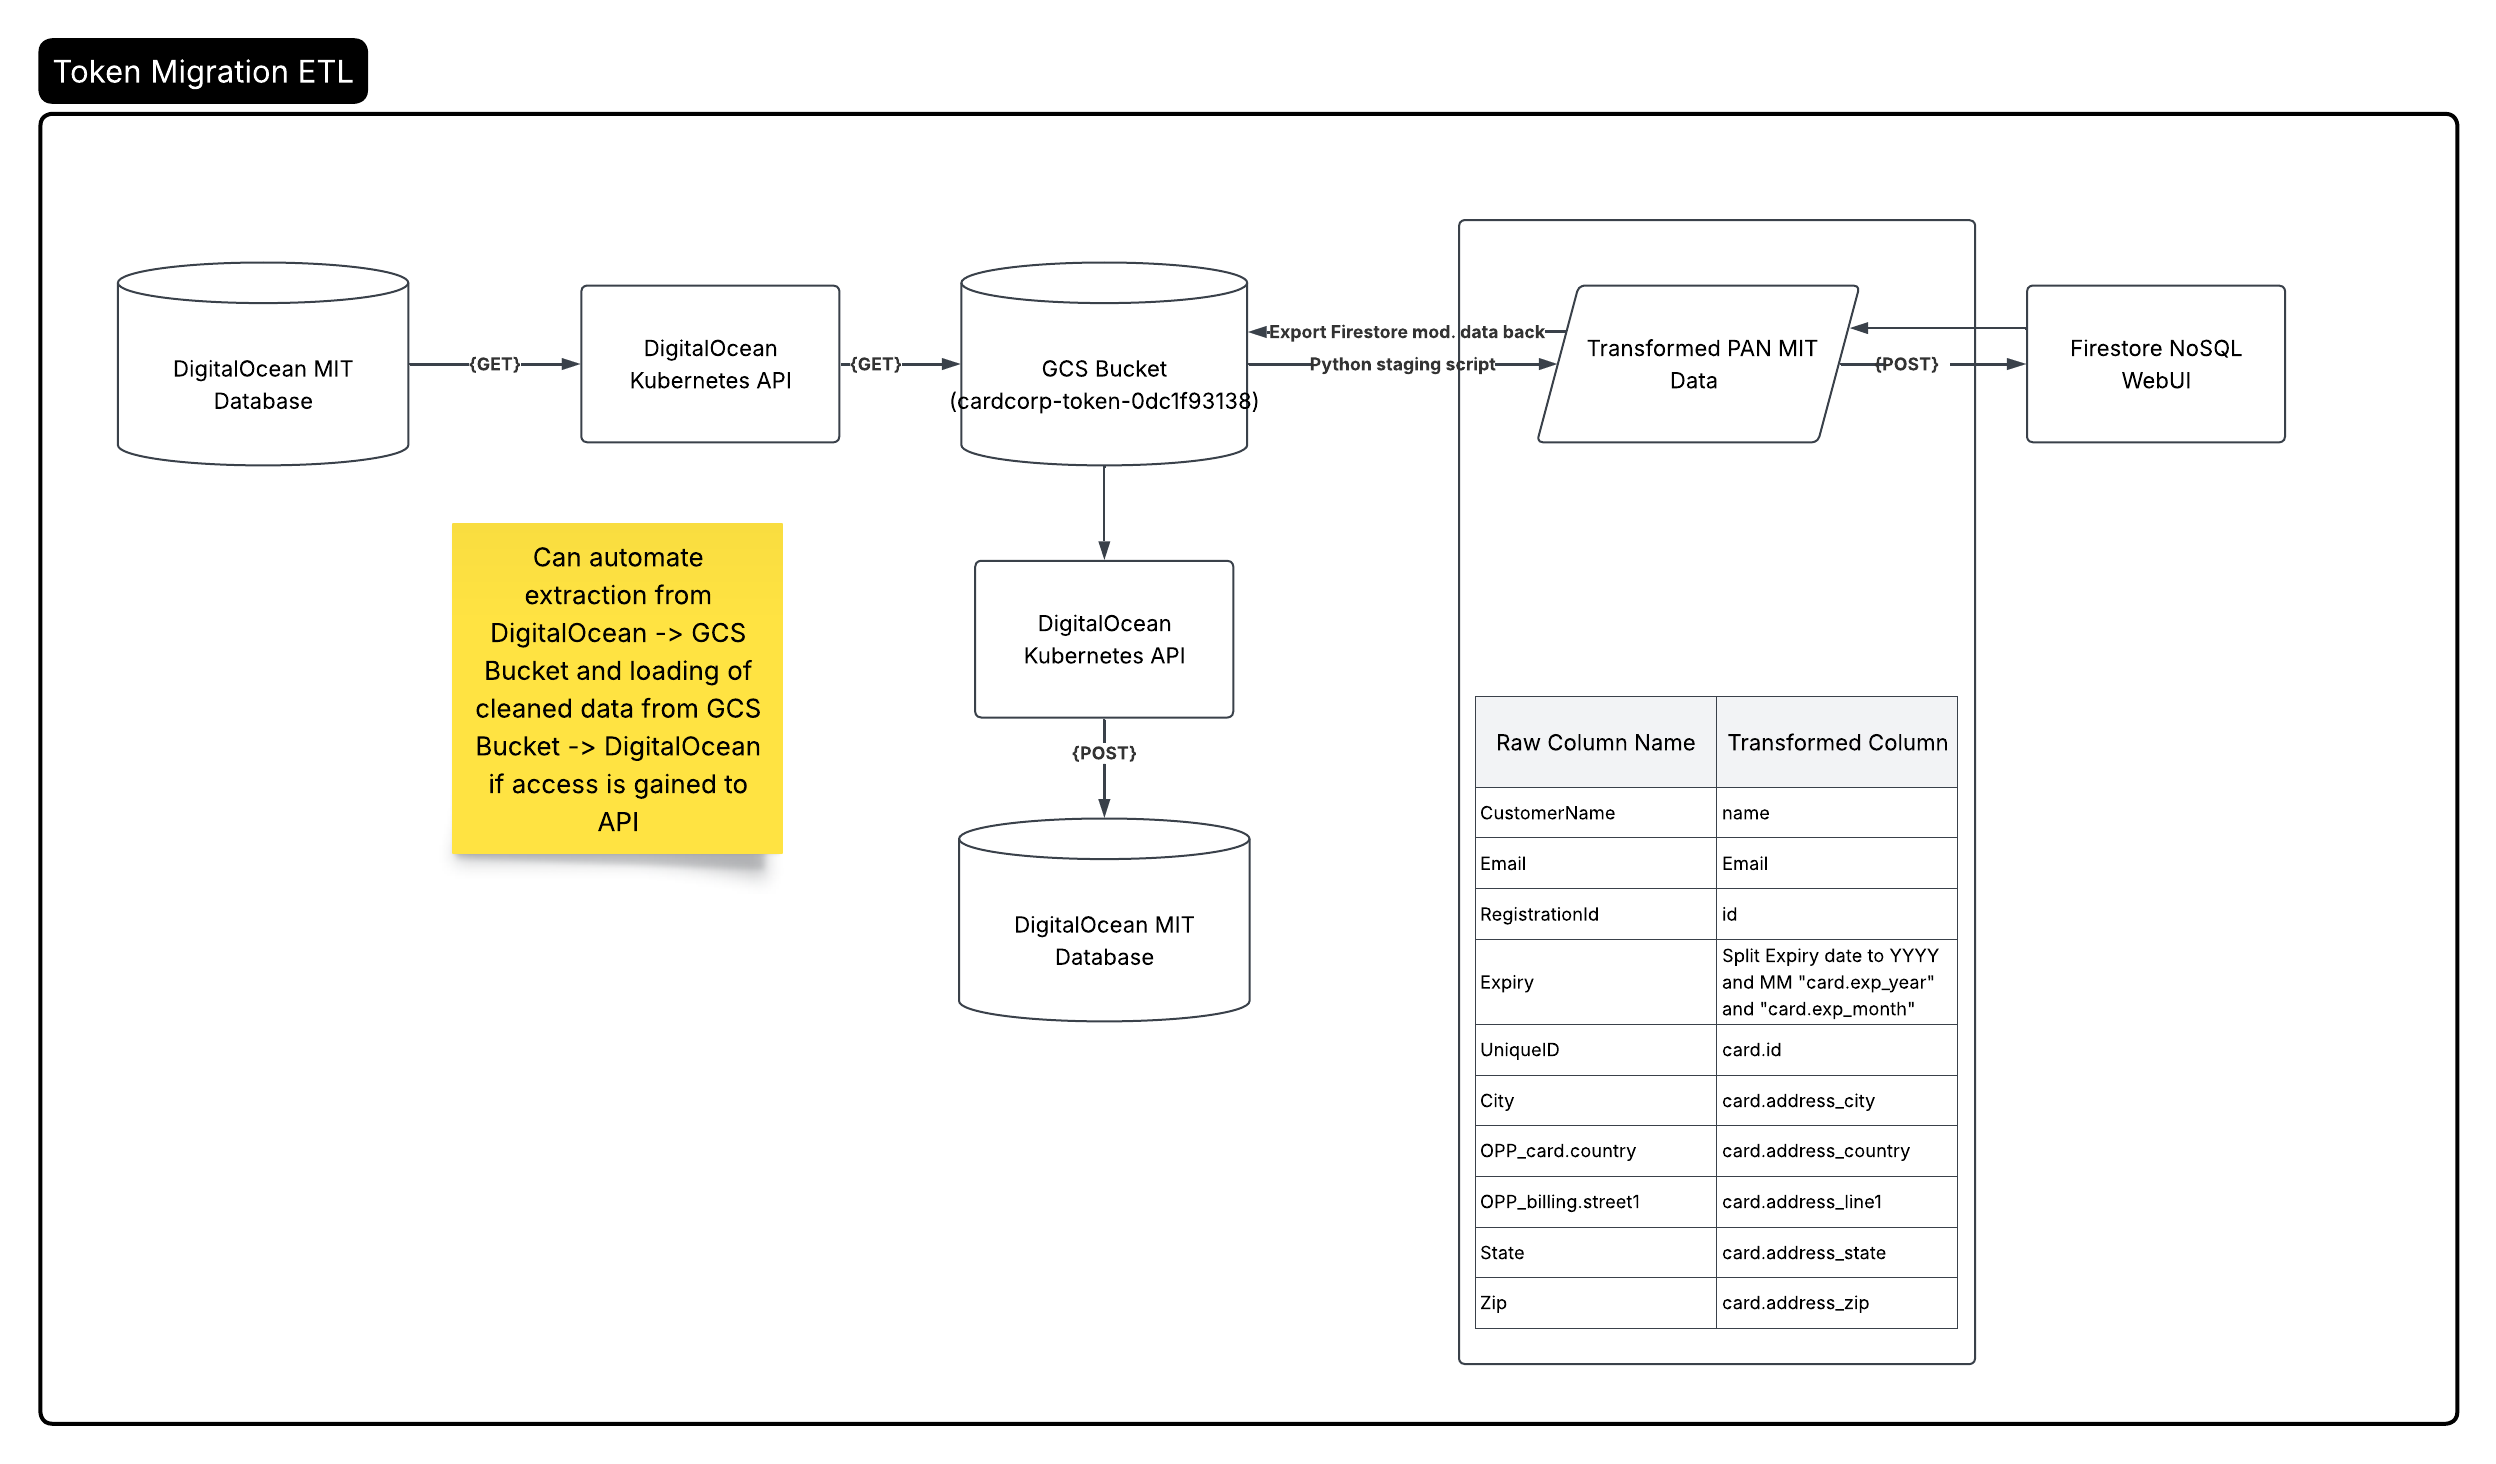
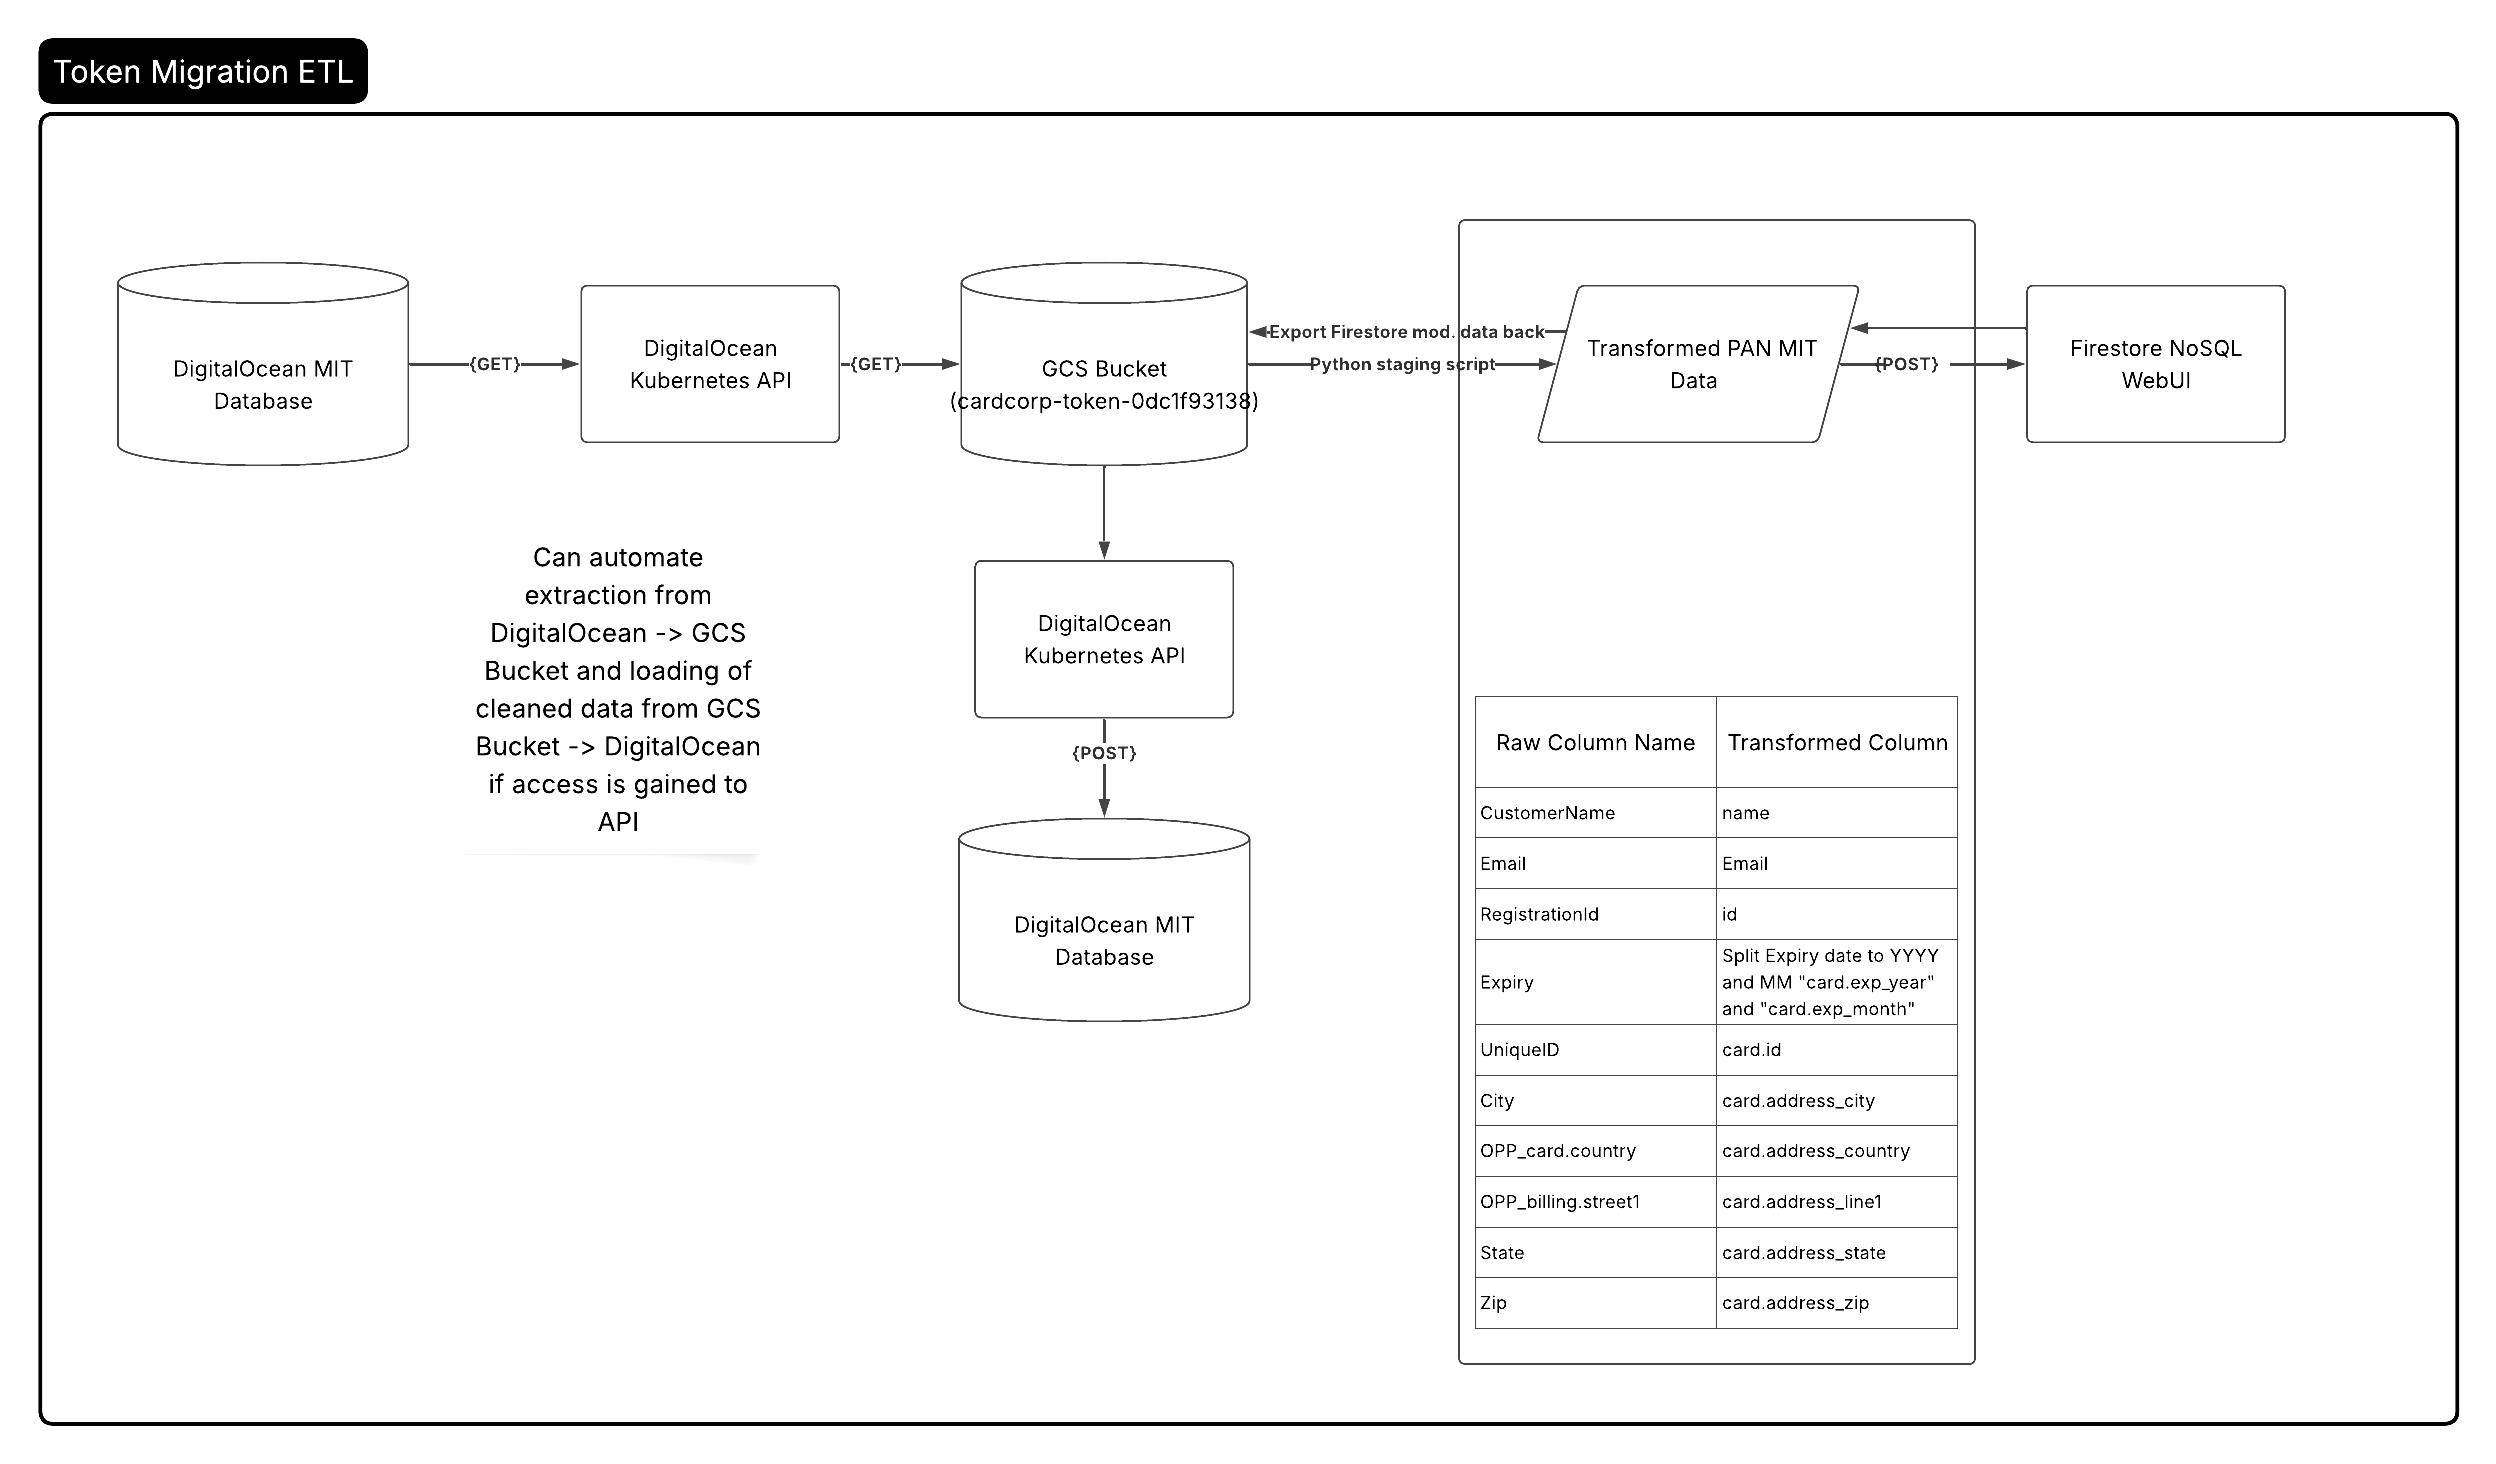
Plain black-and-white diagrams
- Production ETL redrawn black and white (draw_production_etl.py)
- De-identification SVG: teal and yellow replaced with black and white
- DigitalOcean ETL (a Figma export, no source) converted to greyscale

Changed region(s): [[0.1562, 0.3381, 0.3125, 0.6148], [0.6875, 0.6455, 0.75, 0.6762]]

diff --git a/draw_production_etl.py b/draw_production_etl.py
@@ -17,7 +17,7 @@ OUT = Path(__file__).resolve().parent / "Production Token Migration ETL.png"
 W, H = 19.81, 11.87
 LW = 2.0
 FONT = "DejaVu Sans"
-TEAL, TEAL_FILL = "#0f7f86", "#E8F4F4"
+TEAL, TEAL_FILL = "black", "white"
 
 fig = plt.figure(figsize=(W, H), dpi=150)
 ax = fig.add_axes([0, 0, 1, 1])
@@ -56,8 +56,7 @@ def para(cx, cy, w, h, label, size=12.5, s=0.6):
 
 
 def note(x, y, w, h, label, size=11):
-    ax.add_patch(Rectangle((x + 0.05, y - 0.05), w, h, facecolor="#E6E6E6", edgecolor="none", zorder=2))
-    ax.add_patch(Rectangle((x, y), w, h, facecolor="#FDDC82", edgecolor="#C9A227", lw=1.2, zorder=3))
+    ax.add_patch(Rectangle((x, y), w, h, facecolor="white", edgecolor="black", lw=1.4, zorder=3))
     text(x + w / 2, y + h / 2, label, size=size)
 
 
@@ -80,7 +79,7 @@ ax.add_patch(FancyBboxPatch((0.4, 0.5), 19.02, 10.52, boxstyle="round,pad=0,roun
 ax.add_patch(FancyBboxPatch((0.55, 10.26), 4.6, 0.88, boxstyle="round,pad=0,rounding_size=0.1",
                             facecolor="black", edgecolor="black", zorder=2))
 text(0.77, 10.70, "Production Token Migration ETL", size=16, weight="bold", color="white", ha="left")
-text(0.58, 10.06, "any merchant, config-driven", size=12.5, style="italic", color="#555555", ha="left")
+text(0.58, 10.06, "any merchant, config-driven", size=12.5, style="italic", color="black", ha="left")
 
 # extraction row
 y1 = 8.43
@@ -129,7 +128,7 @@ for i, row in enumerate(rows):
     y = top - rh * (i + 1)
     x = tx
     for j, val in enumerate(row):
-        ax.add_patch(Rectangle((x, y), cw[j], rh, facecolor="#EEEEEE" if i == 0 else "white", edgecolor="black",
+        ax.add_patch(Rectangle((x, y), cw[j], rh, facecolor="white", edgecolor="black",
                                lw=1.5 if i == 0 else 1.0, zorder=3))
         text(x + 0.18, y + rh / 2, val, size=10, weight="bold" if i == 0 else "normal", ha="left")
         x += cw[j]
